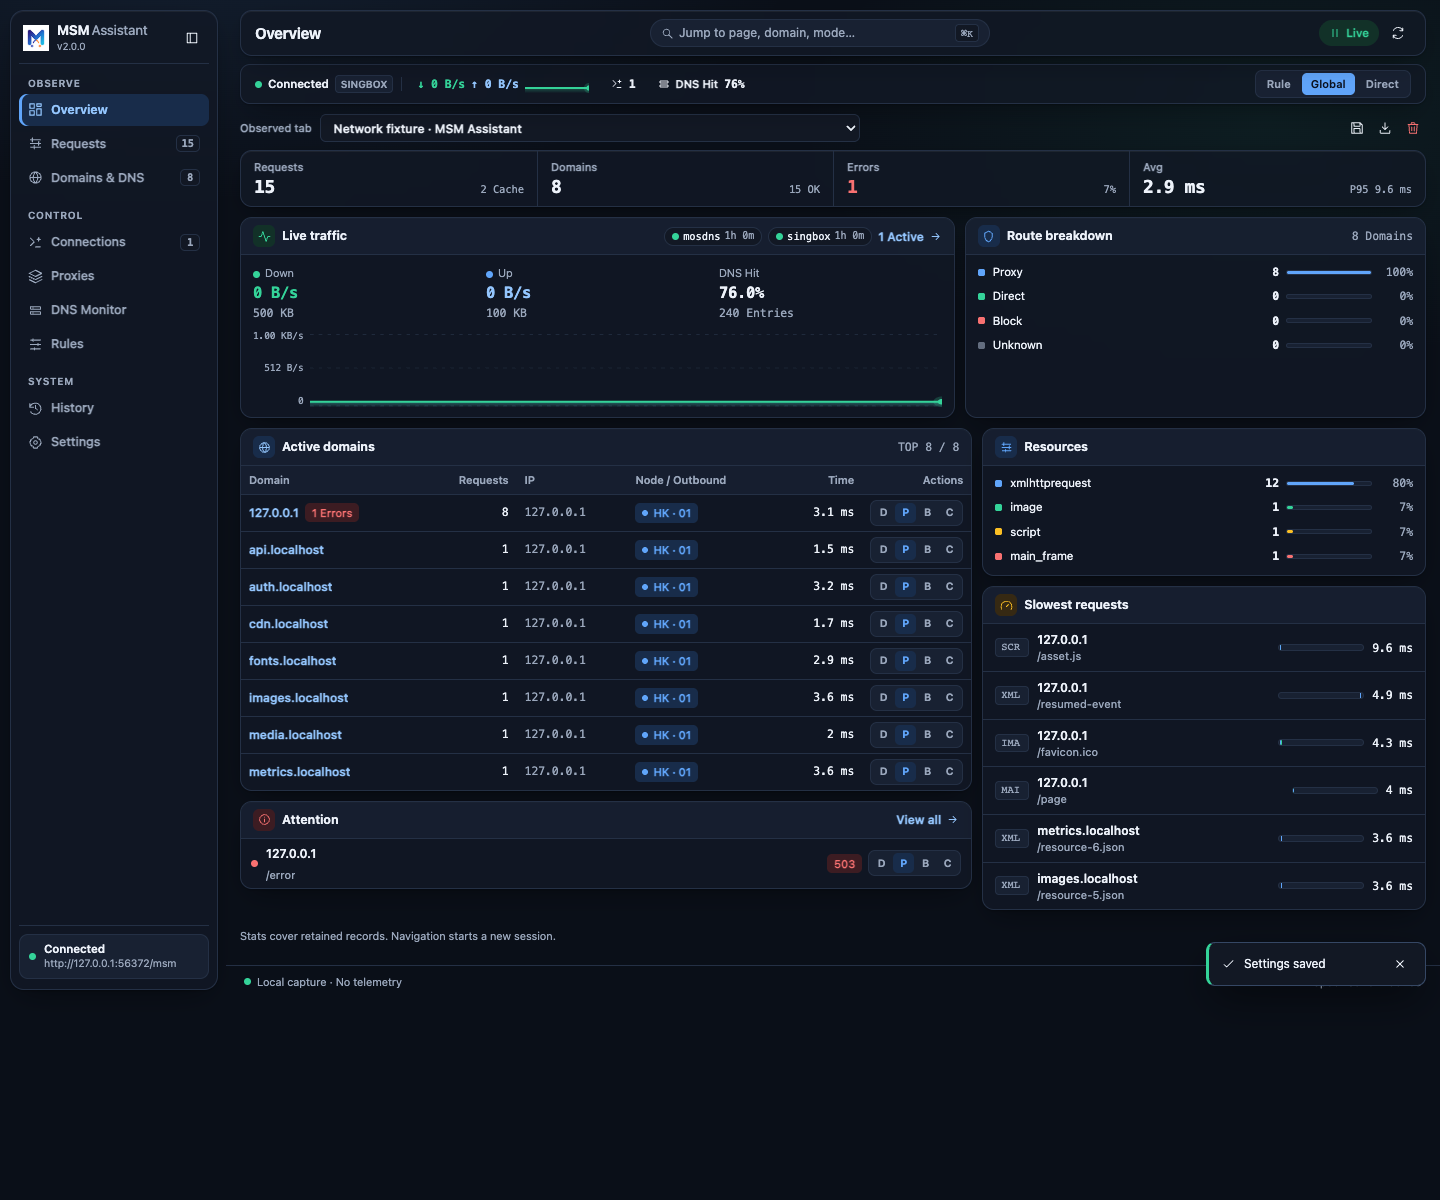
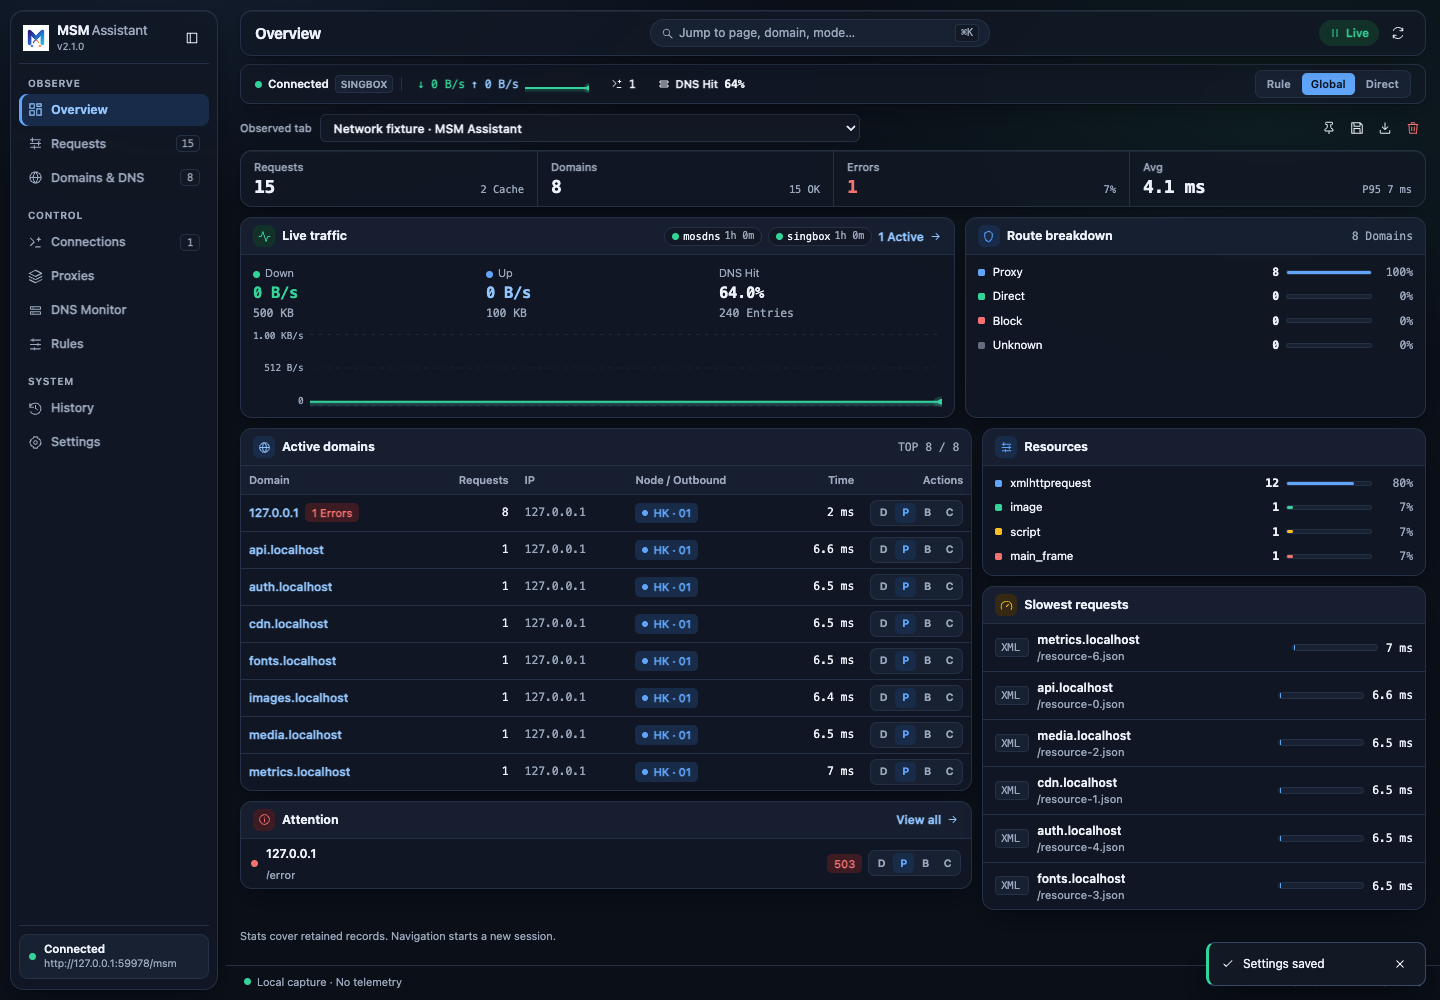
docs(assistant): 发布 MSM Assistant v2.1.0 并更新浏览器助手文档、发布页与截图 / Publish MSM Assistant v2.1.0 and update docs, release page, and screenshots

diff --git a/docs/zh/guide/releases-assistant.md b/docs/zh/guide/releases-assistant.md
@@ -13,18 +13,18 @@ description: MSM Assistant 浏览器助手独立发布页，提供 Google Chrome
 
 ## 🧩 最新浏览器助手版本
 
-<div class="msm-release-hero msm-release-hero--stable" data-version="assistant-v2.0.0" data-release-date="2026-11-22 CST" data-release-url="https://github.com/msm9527/msm-wiki/releases/tag/assistant-v2.0.0">
+<div class="msm-release-hero msm-release-hero--stable" data-version="assistant-v2.1.0" data-release-date="2026-11-22 CST" data-release-url="https://github.com/msm9527/msm-wiki/releases/tag/assistant-v2.1.0">
   <div class="msm-release-hero-copy">
-    <h3 class="msm-release-version"><span>浏览器助手</span> <code>v2.0.0</code></h3>
+    <h3 class="msm-release-version"><span>浏览器助手</span> <code>v2.1.0</code></h3>
   </div>
   <div class="msm-release-actions">
-    <a class="msm-release-action msm-release-action--primary" href="https://github.com/msm9527/msm-wiki/releases/tag/assistant-v2.0.0" target="_blank" rel="noreferrer">下载此版本 <span aria-hidden="true">↗</span></a>
+    <a class="msm-release-action msm-release-action--primary" href="https://github.com/msm9527/msm-wiki/releases/tag/assistant-v2.1.0" target="_blank" rel="noreferrer">下载此版本 <span aria-hidden="true">↗</span></a>
     <a class="msm-release-action" href="/zh/guide/assistant.html">安装与使用指南 <span aria-hidden="true">→</span></a>
   </div>
 </div>
 <div class="msm-release-metrics" aria-label="发布概览">
   <div class="msm-release-metric"><span>支持平台</span><strong>Chrome / Edge / Firefox</strong></div>
-  <div class="msm-release-metric"><span>发布标签</span><strong>assistant-v2.0.0</strong></div>
+  <div class="msm-release-metric"><span>发布标签</span><strong>assistant-v2.1.0</strong></div>
   <div class="msm-release-metric"><span>发布日期</span><strong>2026-11-22</strong></div>
 </div>
 
@@ -32,33 +32,33 @@ description: MSM Assistant 浏览器助手独立发布页，提供 Google Chrome
 
 | 浏览器平台 | 发行包 | 安装方式 |
 | --- | --- | --- |
-| **Google Chrome / Chromium** | [`msm-assistant-2.0.0-chrome.zip`](https://github.com/msm9527/msm-wiki/releases/download/assistant-v2.0.0/msm-assistant-2.0.0-chrome.zip) | 解压后在 `chrome://extensions` 开启开发者模式加载 |
-| **Microsoft Edge** | [`msm-assistant-2.0.0-edge.zip`](https://github.com/msm9527/msm-wiki/releases/download/assistant-v2.0.0/msm-assistant-2.0.0-edge.zip) | 解压后在 `edge://extensions` 开启开发人员模式加载 |
-| **Mozilla Firefox** | [`msm-assistant-2.0.0-firefox.zip`](https://github.com/msm9527/msm-wiki/releases/download/assistant-v2.0.0/msm-assistant-2.0.0-firefox.zip) | 在 `about:debugging#/runtime/this-firefox` 加载或签名安装 |
-| **SHA256 校验文件** | [`SHA256SUMS`](https://github.com/msm9527/msm-wiki/releases/download/assistant-v2.0.0/SHA256SUMS) | `shasum -a 256 -c SHA256SUMS` |
+| **Google Chrome / Chromium** | [`msm-assistant-2.1.0-chrome.zip`](https://github.com/msm9527/msm-wiki/releases/download/assistant-v2.1.0/msm-assistant-2.1.0-chrome.zip) | 解压后在 `chrome://extensions` 开启开发者模式加载 |
+| **Microsoft Edge** | [`msm-assistant-2.1.0-edge.zip`](https://github.com/msm9527/msm-wiki/releases/download/assistant-v2.1.0/msm-assistant-2.1.0-edge.zip) | 解压后在 `edge://extensions` 开启开发人员模式加载 |
+| **Mozilla Firefox** | [`msm-assistant-2.1.0-firefox.zip`](https://github.com/msm9527/msm-wiki/releases/download/assistant-v2.1.0/msm-assistant-2.1.0-firefox.zip) | 在 `about:debugging#/runtime/this-firefox` 加载或签名安装 |
+| **SHA256 校验文件** | [`SHA256SUMS`](https://github.com/msm9527/msm-wiki/releases/download/assistant-v2.1.0/SHA256SUMS) | `shasum -a 256 -c SHA256SUMS` |
 
 ### 🎉 本次亮点 {#release-highlights}
 
 <ol class="msm-release-highlights">
   <li class="msm-release-highlight">
     <span class="msm-release-highlight-index" aria-hidden="true">01</span>
-    <p>全新 Precision Glass Console 设计，统一 Popup 弹窗、Side Panel 侧边栏与全屏工作台三端体验，提供浅色 / 深色主题与 ⌘K 全局命令面板</p>
+    <p>全新无冲突分流策略引擎（[直] [代] [禁] [复] [清]）：切换策略自动清理 MosDNS 兄弟列表冲突并刷新缓存，支持一键恢复默认分流与当前域名 / 根域名作用域切换</p>
   </li>
   <li class="msm-release-highlight">
     <span class="msm-release-highlight-index" aria-hidden="true">02</span>
-    <p>实时流式架构（runtime.connect）驱动吞吐、活跃连接、域名分流归因与工具栏动态徽标，告别低频轮询</p>
+    <p>深度适配 Mihomo Smart 智能策略组：遵循配置顺序排列策略组、展示组图标与子策略组穿透延迟、固定态一键「恢复智能优选」及全组无截断并发测速</p>
   </li>
   <li class="msm-release-highlight">
     <span class="msm-release-highlight-index" aria-hidden="true">03</span>
-    <p>新增完整控制面：规则 / 全局 / 直连模式切换、Clash / Sing-Box 代理组测速与切节点、实时连接列表与一键断开</p>
+    <p>旁路由实时连接安全防护与客户端过滤：筛选态自动切换「断开筛选连接」防止误断局域网其他设备，新增 LAN 客户端 IP 过滤与表头锁定的虚拟滚动列表</p>
   </li>
   <li class="msm-release-highlight">
     <span class="msm-release-highlight-index" aria-hidden="true">04</span>
-    <p>深度对齐 MSM 后台重构 4 标签 MosDNS 监控工作台（实时查询日志、概览与排行、上游 DNS 统计、缓存分片与详情弹窗）</p>
+    <p>双模规则工作台与实时流稳定性升级：新增「代理核心规则」只读视图（含规则类型、策略与命中次数）及多行原子批量写入；跨页面导航长连接不断流，预加载网页即开即看</p>
   </li>
   <li class="msm-release-highlight">
     <span class="msm-release-highlight-index" aria-hidden="true">05</span>
-    <p>正式提供 Google Chrome、Microsoft Edge 与 Mozilla Firefox 三平台独立构建包、SHA256SUMS 校验与双目标自动化端到端验证</p>
+    <p>Popup 与 390px 侧边栏全功能闭环：补齐规则、历史、行内设置与 ⌘K 搜索，首屏零闪烁主题缓存、Top-Layer Popover 通知与长 IPv6 截断修复</p>
   </li>
 </ol>
 
@@ -68,11 +68,12 @@ description: MSM Assistant 浏览器助手独立发布页，提供 Google Chrome
 
 ### 🆕 新增功能 {#release-added}
 
-- 新增代理节点页面，支持按策略组查看节点、批量/单节点延迟测速与一键切换
-- 新增实时连接页面，支持按域名/规则/代理链路筛选、查看连接详情及断开连接
-- 新增 4 标签 MosDNS 监控工作台：实时查询日志、概览与排行、上游 DNS 统计与缓存分片视图
-- 新增全屏工作台 `⌘K` / `Ctrl+K` 命令面板与工具栏实时状态徽标
-- 新增 Chrome、Edge 与 Firefox 三平台独立发行构建及 `SHA256SUMS` 校验清单
+- 新增无冲突 MosDNS 策略引擎与 `[复]` 一键重置按钮，并在域名详情与连接详情支持 `当前域名 / *.根域名` 作用域切换
+- 新增规则管理「代理核心规则」视图（支持按规则类型、匹配内容、出站策略检索并显示 RuleSet 规模与命中次数）及 `/batch` 原子批量添加规则
+- 新增 Mihomo `Smart` 智能组固定态标记与一键「恢复智能优选」（`DELETE /proxy/controller/proxies/:group`）
+- 新增实时连接页局域网客户端 `srcIP` 筛选器、当前站点连接数徽标与「断开筛选连接」安全操作
+- 新增预加载网页自动关联主域名与「重载网页完整采集」引导，Popup / Side Panel 补齐规则、历史、行内设置与 `⌘K` 命令面板
+- 所有域名输入框与命令面板支持直接粘贴完整 URL 自动规范化主机名
 
 </section>
 
@@ -80,10 +81,12 @@ description: MSM Assistant 浏览器助手独立发布页，提供 Google Chrome
 
 ### 🐛 问题修复与体验优化 {#release-fixed}
 
-- 修复 MosDNS 查询日志 `type`、`q`、`domain_mode` 筛选参数与 MSM 后端接口对齐问题
-- 修复缓存命中率与懒命中率计算口径，支持亚毫秒（`< 1 ms`）DNS 耗时精确展示
-- 修复热门查询域名超长文本重叠、宽屏/窄屏分栏表格裁切以及侧边栏徽标横向滚动条问题
-- 修复 Microsoft Edge 158 扩展冷启动下网络请求监听竞态问题，全页面通过 WCAG 2.1 AA 无障碍检查
+- 修复切换直连/代理/拦截时因 MosDNS 兄弟规则列表残留导致策略被更高优先级列表覆盖的问题，后台写操作升级为 FIFO 串行队列消除并发 `busy` 报错
+- 修复跨页面导航时断开 `msm-stream` 长连接并丢失归档视图、以及重开弹窗瞬间出现虚假速率尖峰的问题
+- 修复 DNS 监控 3 秒自动轮询导致刷新按钮持续禁用闪烁的问题，并修正上游健康度降级与异常状态文案
+- 修复代理组按字母排序打乱配置顺序、规则模式下冗余显示 `GLOBAL`、隐藏组泄露及全组测速仅测前 16 个节点的问题
+- 修复总览页长 IPv6 地址跨列溢出、390px 侧边栏导航标签右侧图标被裁切、状态浮层层级遮挡及弹窗遮盖 Toast 通知的问题
+- 全量通过 38 项单元测试、Chrome / Edge 双平台 13 项 E2E 与明暗双主题 WCAG 2.1 AA 校验及 Firefox `addons-linter` 零错误校验
 
 </section>
 
@@ -100,4 +103,12 @@ description: MSM Assistant 浏览器助手独立发布页，提供 Google Chrome
 
 ## 📚 历史版本
 
-> `v2.0.0` 是首个在 MSM Wiki 独立公开发布的三平台版本；后续更新将持续归档在此处。
+<details>
+<summary><strong>v2.0.0</strong>（2026-11-22 · <code>assistant-v2.0.0</code>）— 首个三平台独立公开发行版</summary>
+
+- 下载归档：[`msm-assistant-2.0.0-chrome.zip`](https://github.com/msm9527/msm-wiki/releases/download/assistant-v2.0.0/msm-assistant-2.0.0-chrome.zip) · [`msm-assistant-2.0.0-edge.zip`](https://github.com/msm9527/msm-wiki/releases/download/assistant-v2.0.0/msm-assistant-2.0.0-edge.zip) · [`msm-assistant-2.0.0-firefox.zip`](https://github.com/msm9527/msm-wiki/releases/download/assistant-v2.0.0/msm-assistant-2.0.0-firefox.zip) · [GitHub Release](https://github.com/msm9527/msm-wiki/releases/tag/assistant-v2.0.0)
+- 全新 Precision Glass Console 设计，统一 Popup、Side Panel 与全屏工作台三端界面，支持浅色 / 深色主题与 `⌘K` 命令面板
+- 引入 `runtime.connect` 长连接实时推送、代理控制面（模式切换 / 代理组测速切节点 / 实时连接）与 4 标签 MosDNS 监控工作台
+- 正式提供 Google Chrome、Microsoft Edge 与 Mozilla Firefox 三平台独立构建与 `SHA256SUMS` 校验清单
+
+</details>
